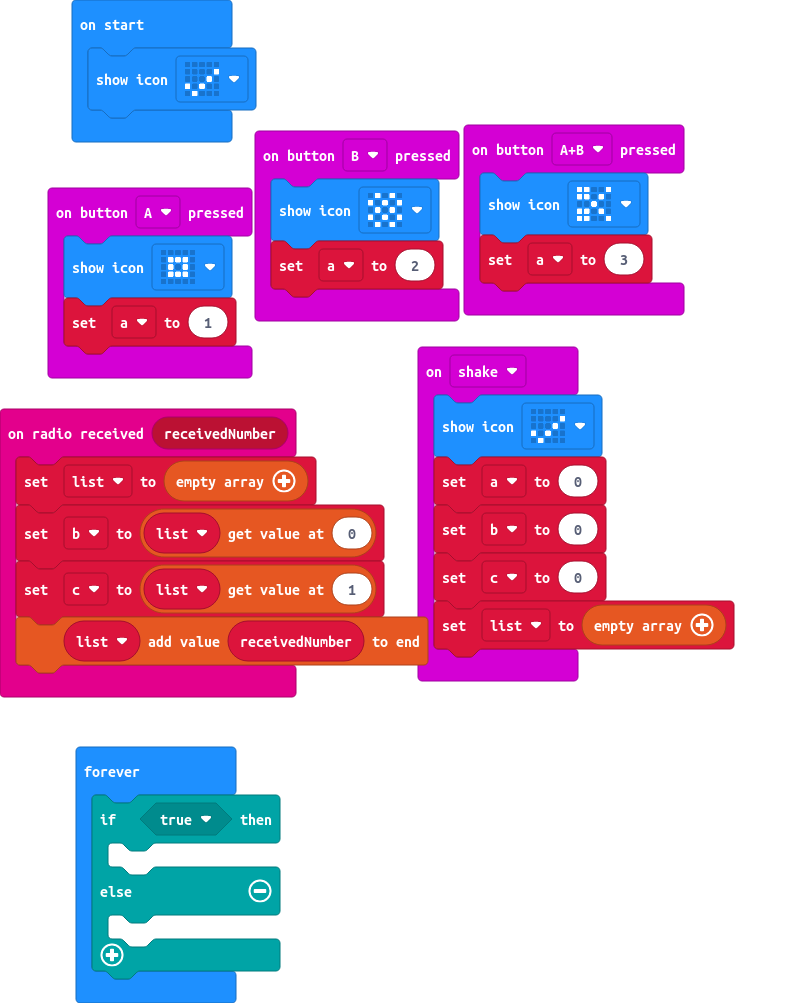
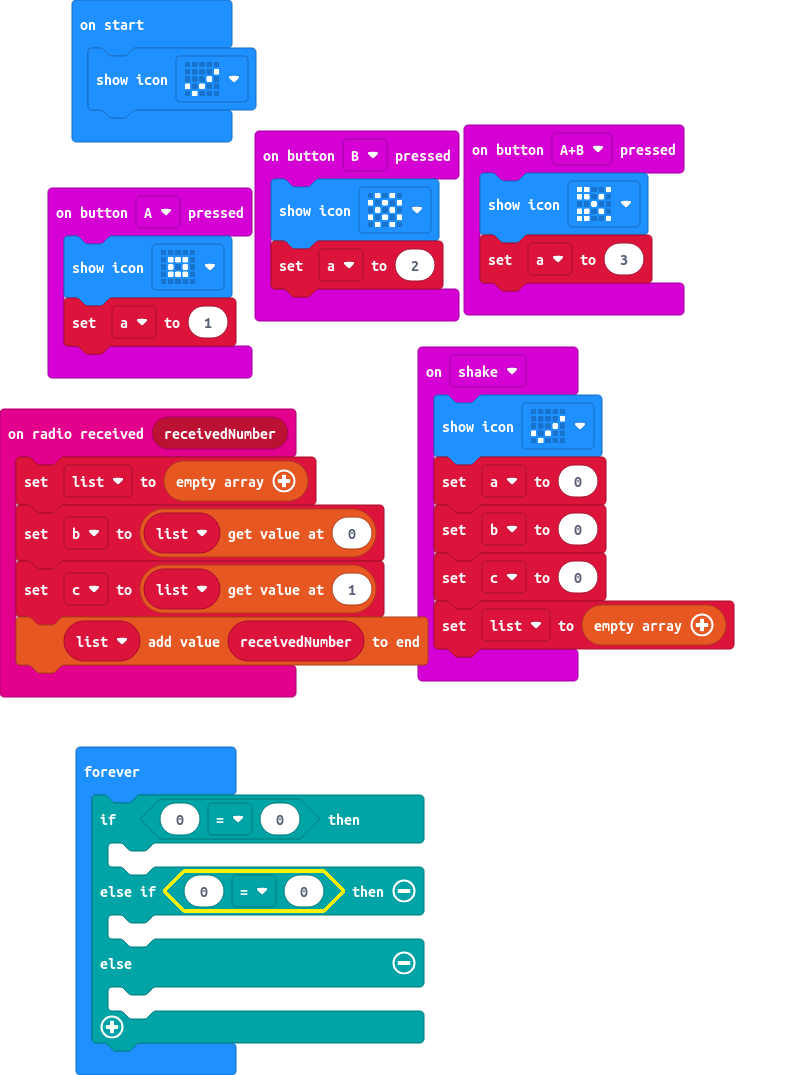
Update main.blocks, main.ts

diff --git a/main.ts b/main.ts
@@ -29,7 +29,9 @@ let b = 0
 let list: number[] = []
 basic.showIcon(IconNames.Yes)
 basic.forever(function () {
-    if (true) {
+    if (0 == 0) {
+    	
+    } else if (0 == 0) {
     	
     } else {
     	
